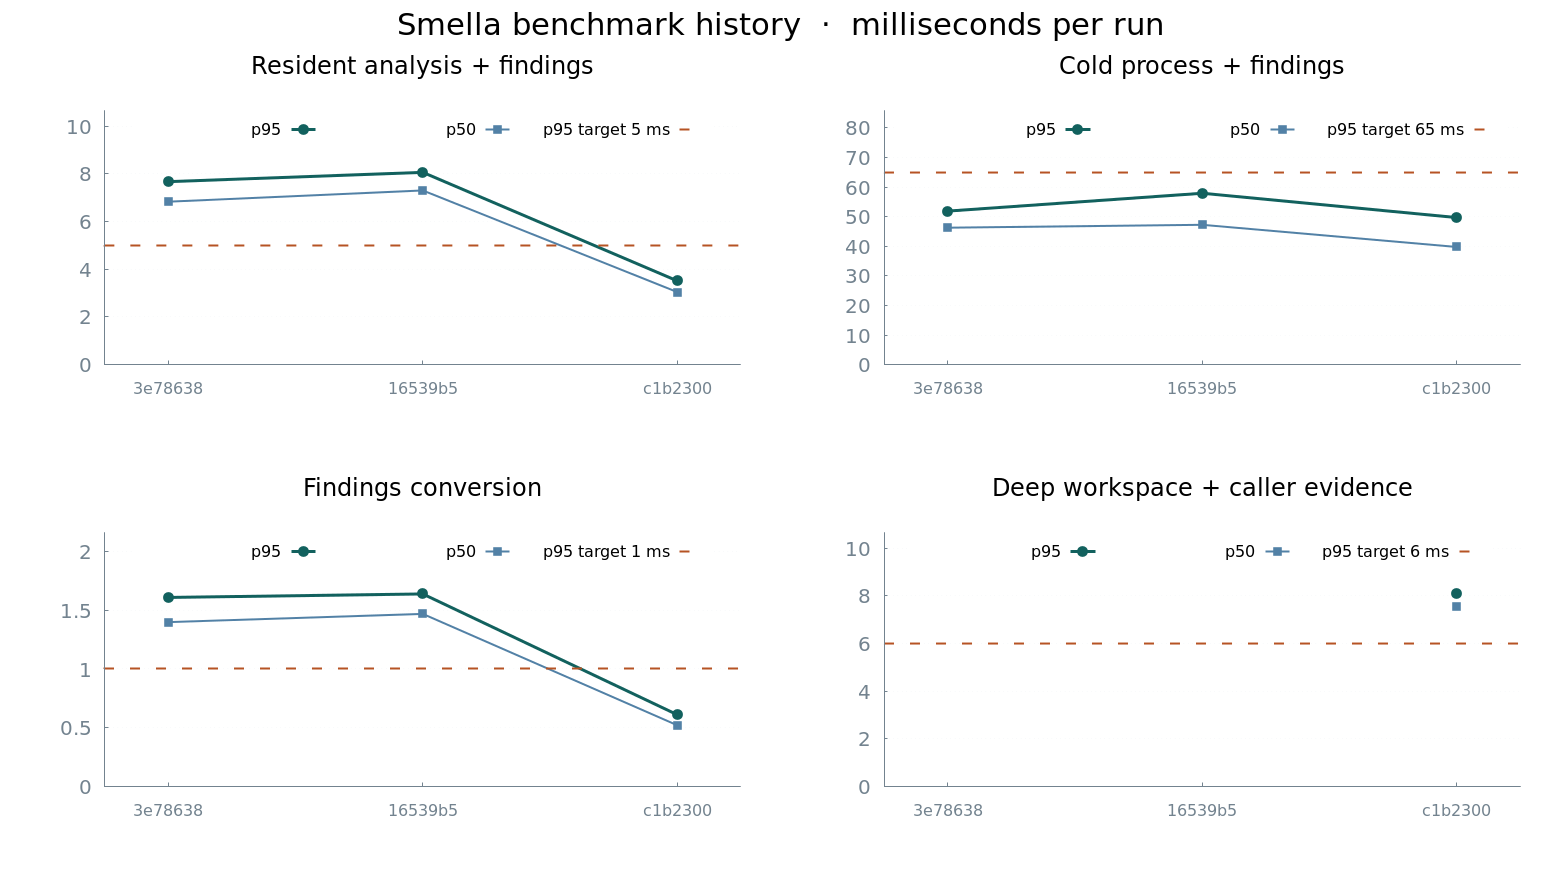
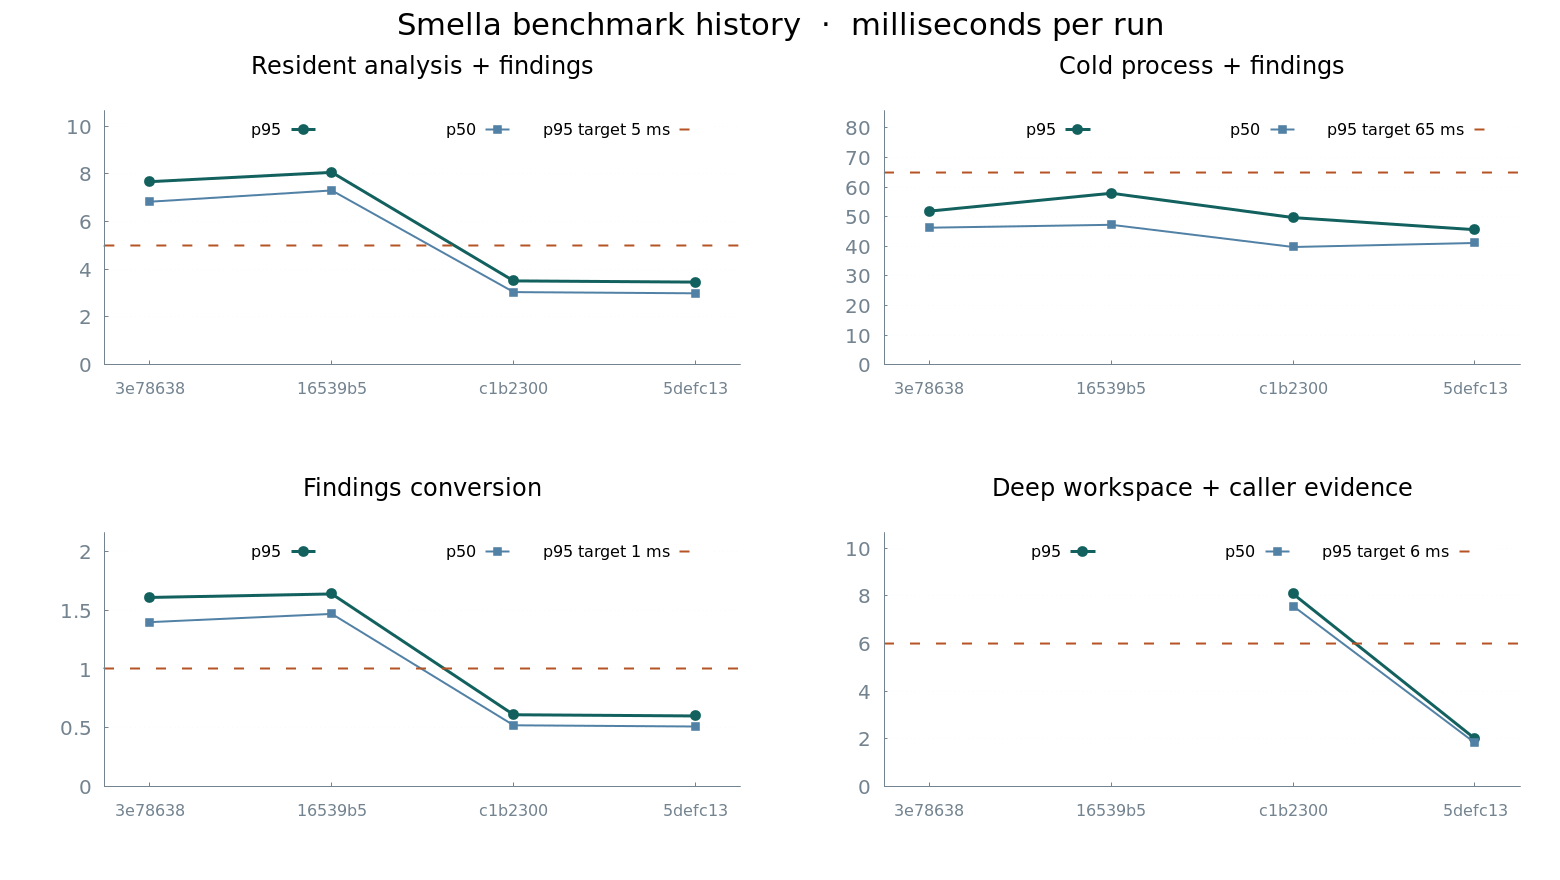
Record optimized workspace evidence timings and release gate results

diff --git a/benchmarks/README.md b/benchmarks/README.md
@@ -14,6 +14,12 @@
 
 Each latency series uses 20 samples and nearest-rank percentiles. The resident synthetic workloads use one warmup. Peak RSS on the export chain comes from the child process resource counters. Wall times use a warm filesystem. Hardware, kernel, toolchain, fixture version and Git revision are recorded in each run.
 
+## First optimization cycle
+
+On the matched 513-file workload, resident p95 went from 8.06 ms at `16539b5` to 3.46 ms at `5defc13`. On the latter revision, cold p50 was 41.13 ms for Smella and 225.29 ms for Knip 6.48.0. Both produced the same 512 unused export pairs.
+
+The first 32-package run took 8.08 ms at p95 including its explanation. Many callers shared a suffix of the same reference path. Encoding each suffix once across the native boundary reduced full-query p95 to 2.00 ms, including findings, all 64 test origins, and the caller paths. The reference-machine target went from 25 ms to 6 ms. All seven published gates passed, including the package size checks. [Before entry](history/2026-11-25T15-13-06.523Z-c1b2300.json) · [After entry](history/2026-11-25T15-16-17.851Z-5defc13.json)
+
 ## Record progress
 
 From a checkout with Rust 1.88+, Node 24, npm, and Gnuplot with the pngcairo terminal, run:
